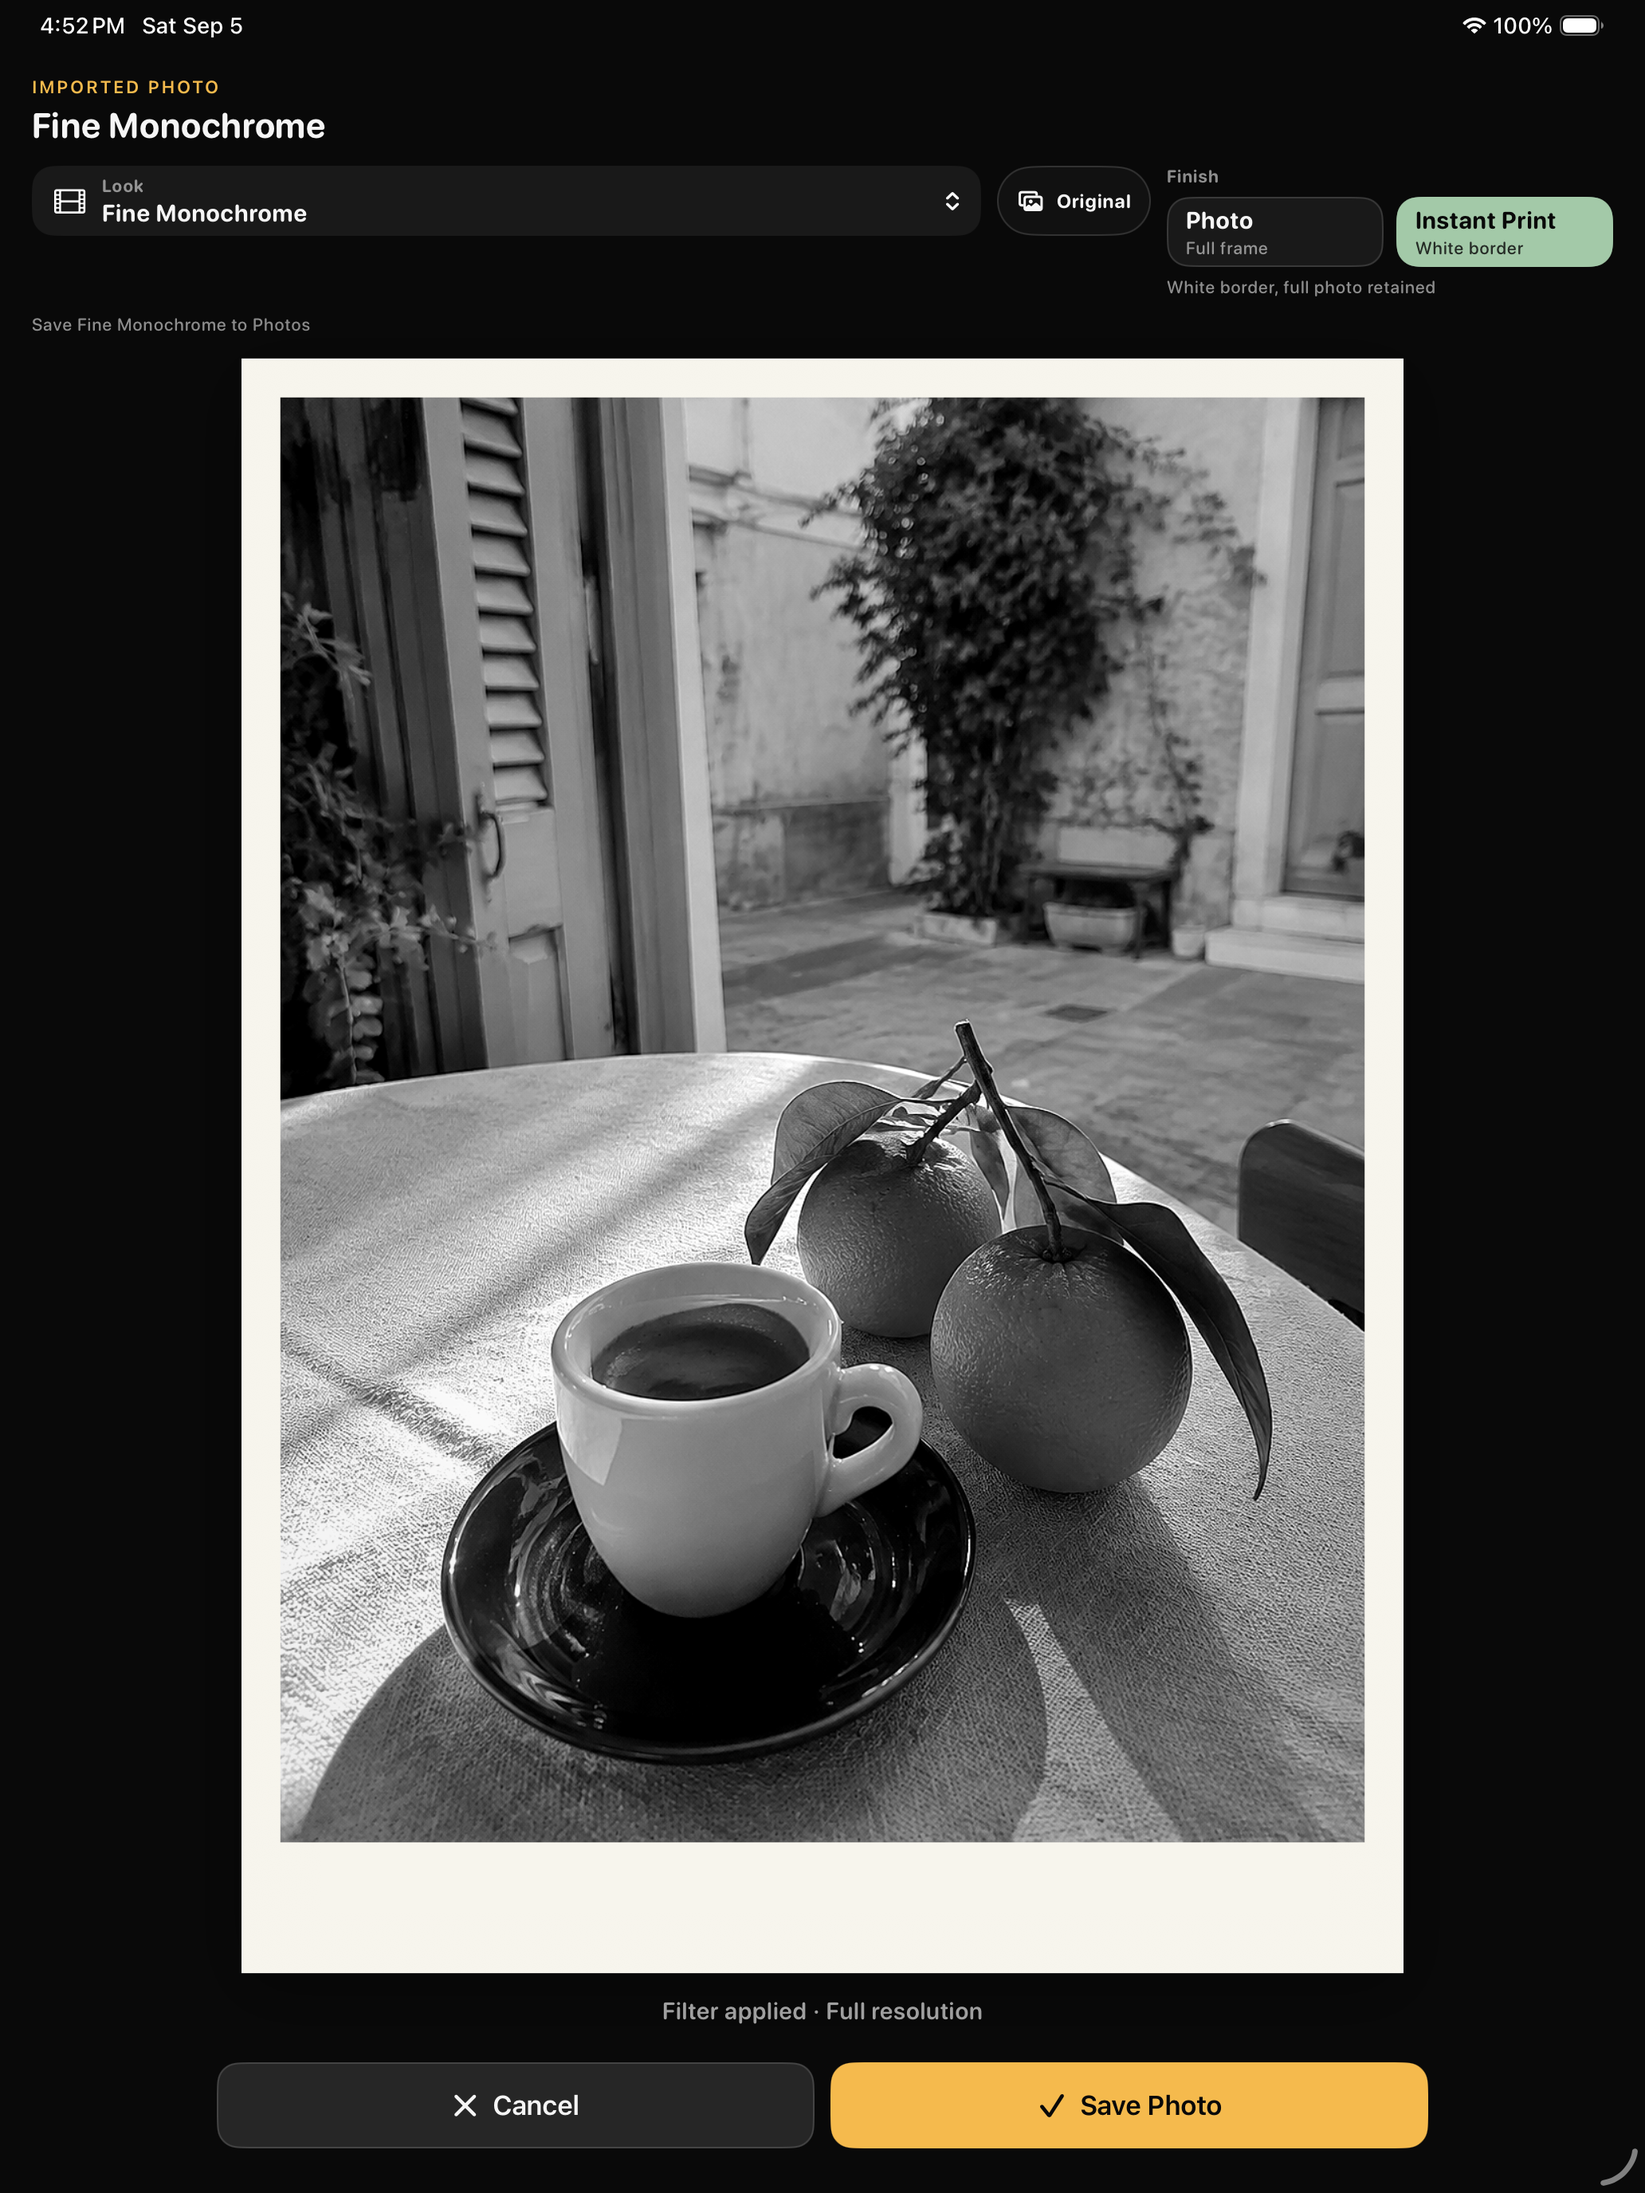
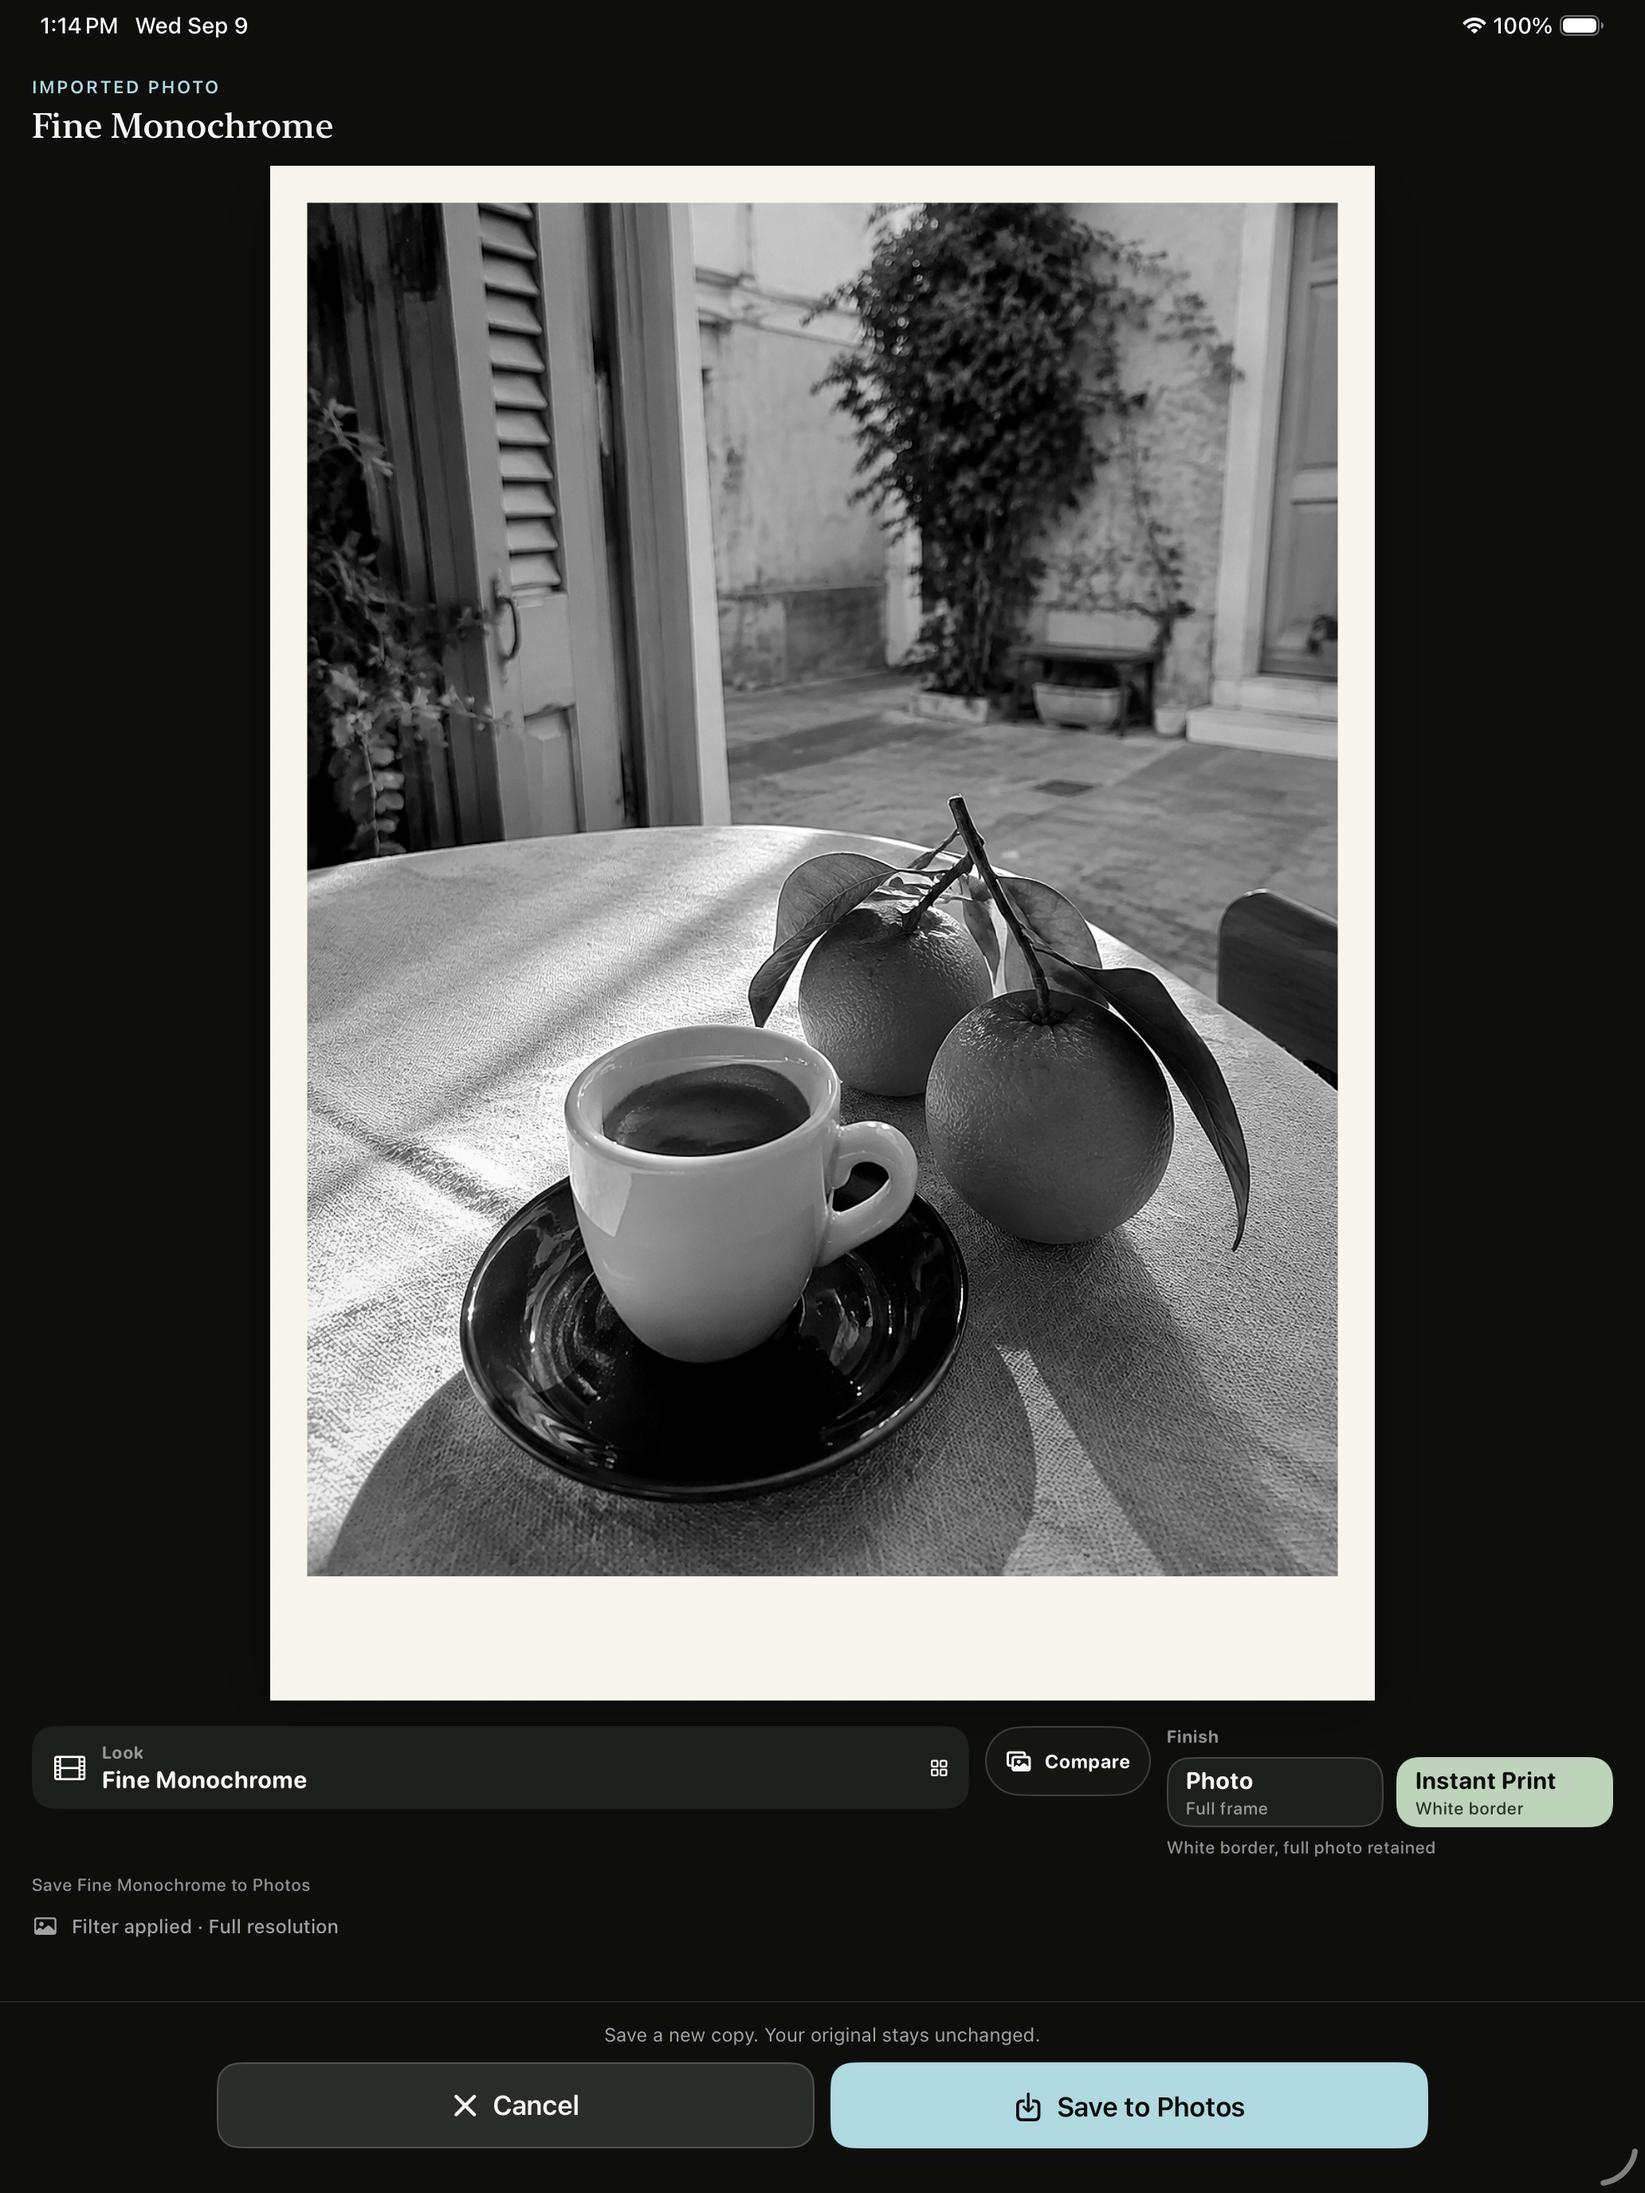
Refresh build 12 App Store screenshots and release status

diff --git a/docs/release-checklist.md b/docs/release-checklist.md
@@ -6,11 +6,16 @@ Current candidate: version 1.0.0, build 12, from [PR #90](https://github.com/dhe
 
 - [x] Review the catalog, capture setup, preview lifecycle, and release path; add regression coverage for canceled preview jobs and persisted aid toggles.
 - [x] Update local listing text for the 128-look catalog and capture tools; validate metadata and media inputs.
-- [ ] Pass final core, UI, Photos E2E, catalog, and iPhone/iPad hosted checks on the candidate source.
-- [ ] Merge the validated PR and verify main checks.
-- [ ] Create and validate the signed build 12 archive and IPA; upload and verify Apple processing.
-- [ ] Run physical-device acceptance for timer/cancel, framing, hardware shutter, preview aids, camera/lens controls, capture/import/save, and interruptions. On September 9, build 12 installed on the paired iPad, but launch was blocked by its lock screen. The paired iPhone also required unlocking before installation. Installation alone does not complete hardware acceptance.
+- [x] Pass final core, UI, Photos E2E, catalog, and iPhone/iPad hosted checks on candidate `e73c5ee`: 407 core/UI/Photos tests, 149 catalog/policy/layout tests, and 14 UI evidence cases on each device; zero failures/skips.
+- [x] Merge PR #90 and verify exact main `35f833b`: all 407 app tests and the Release SDK/physical-test compilation passed. The merged source tree matches the signed candidate.
+- [x] Create and validate the signed build 12 archive and IPA, including source provenance, signing, privacy, executable/dSYM UUIDs, and export parity. Archive source remains `e73c5ee`.
+- [ ] Upload build 12 and verify Apple processing. The attempt stopped before transfer because Xcode's account token was missing; Apple sign-in is required.
+- [ ] Run physical-device acceptance for timer/cancel, framing, hardware shutter, preview aids, camera/lens controls, capture/import/save, and interruptions. An earlier build 12 candidate installed on the iPad but could not launch while locked. Final candidate installation failed when the developer connection dropped; the iPhone was unavailable. Final physical acceptance remains incomplete.
+- [x] Publish and verify the privacy-policy explanation of optional on-device horizon motion processing. The live policy matches legal-site commit `f699bcb` ([deployment](https://github.com/dheeraj5612/filmycam-legal/actions/runs/34379804180)).
+- [x] Refresh and inspect both local five-image screenshot packs for build 12. Clean capture source `731b285` passed both complete import/save/Roll/detail flows with zero failures/skips; all ten unedited PNG attachments passed visual and structural validation. Source, runtime, summaries, and hashes are preserved. Upload remains pending.
+- [ ] Add an owner-approved public direct support contact, as described in Apple's [Support URL requirements](https://developer.apple.com/help/app-store-connect/reference/app-information/platform-version-information/). The current support page links GitHub Issues; no private App Review contact has been republished.
 - [ ] Refresh App Store Connect metadata/build selection and verify the saved draft.
+- [ ] Verify the saved age-rating questionnaire, including Apple's [September 2026 Social Media question](https://developer.apple.com/app-store/whats-new/). The source-based prepared answer is No; saved portal state is unverified.
 - [ ] Submit the validated free app for App Review and verify the resulting state. Public availability depends on Apple approval.
 
 The build 11 and earlier items below are historical candidate checkpoints. Their checked boxes do not validate build 12. The September 5 readback recorded build 10 as processed and Ready to Submit, with build 5 retained on a withdrawn distribution version; current Apple state needs fresh readback. Historical release notes are in [release-history.md](release-history.md).

diff --git a/docs/app-store/screenshots/iphone-6.5-current/README.md b/docs/app-store/screenshots/iphone-6.5-current/README.md
@@ -1,6 +1,6 @@
 # Current iPhone 6.5-inch App Store screenshot pack
 
-Five actual 1242×2688 PNGs from version 1.0.0 (11), captured September 5, 2026 with reversible review, Original comparison, and optional Instant Print borders. This replacement pack was uploaded to App Store Connect on September 5, 2026; a reload verified all five files in numeric order.
+Five actual 1242×2688 PNGs from version 1.0.0 (12), captured September 9, 2026 from clean source `731b285d1e3e9b28f9a960e21466a4a001b23e3e`. The application/project inputs match signed archive source `e73c5ee`; the intervening changes correct the screenshot test helper and privacy documentation. This pack has not been uploaded to App Store Connect.
 
 1. G7 X Compact import
 2. Muted Color import
@@ -8,12 +8,12 @@ Five actual 1242×2688 PNGs from version 1.0.0 (11), captured September 5, 2026 
 4. Populated Roll with exactly three matching saved treatments
 5. Fine Monochrome Instant Print photo detail
 
-The public generated cafe original in `../demo-source/` was imported through the normal production Photos picker, renderer, review, save, Roll, and detail flows. This demonstrates imported media, not live camera capture. No private photos or composited app UI are included.
+The public generated cafe original in `../demo-source/` was imported through the normal production Photos picker, renderer, review, save, Roll, and detail flows. These images demonstrate imported media. No private photos, composited app UI, debug overlays, or camera-unavailable placeholders are included.
 
-The hardened store-media runner created and seeded an isolated iPhone 11 Pro Max simulator on iOS 26.5, forced zero prior saves, and removed only that owned simulator afterward. Reference simulator libraries were untouched. All five images were visually inspected: G7 X is vivid, Muted Color is restrained, and Fine Monochrome is grayscale; the Roll shows their corresponding saved outputs.
+The runner created and seeded an isolated iPhone 11 Pro Max simulator on iOS 26.5 with zero prior saves. All five images were visually inspected: G7 X is vivid, Muted Color is restrained, Fine Monochrome is grayscale, and the Roll shows the corresponding saved outputs. The test also verifies complete photo bounds, source/Instant Print aspect ratio, reachable Look/Compare/Finish/Save controls, safe areas, and disabled covered-camera controls.
 
[2 lines of base64/hex data omitted]
 
-Run `scripts/release/validate-store-media.sh` for format/dimension checks. Structural validation is separate from visual inspection and App Store Connect acceptance.
+Capture provenance and per-image hashes are tracked in [build12-provenance.json](../build12-provenance.json).
 
-The source subsequently received compact-landscape layout changes; this portrait pack represents the unchanged portrait presentation.
+Run `scripts/release/validate-store-media.sh` for format/dimension checks. Local validation is separate from Apple upload and acceptance.

diff --git a/docs/app-store/screenshots/ipad-13-current/README.md b/docs/app-store/screenshots/ipad-13-current/README.md
@@ -1,17 +1,19 @@
 # Current iPad 13-inch App Store screenshot pack
 
-Five actual 2064×2752 PNGs from version 1.0.0 (11), captured September 5, 2026 with review look selection, Original comparison, and Instant Print. This replacement pack was uploaded to App Store Connect on September 5, 2026; a reload verified all five files in numeric order.
+Five actual 2064×2752 PNGs from version 1.0.0 (12), captured September 9, 2026 from clean source `731b285d1e3e9b28f9a960e21466a4a001b23e3e`. The application/project inputs match signed archive source `e73c5ee`; the intervening changes correct the screenshot test helper and privacy documentation. This pack has not been uploaded to App Store Connect.
 
 1. G7 X Compact import
 2. Muted Color import
-3. Fine Monochrome import
+3. Fine Monochrome import with Instant Print border
 4. Populated Roll with exactly three matching saved treatments
-5. Fine Monochrome photo detail
+5. Fine Monochrome Instant Print photo detail
 
-The public generated cafe original in `../demo-source/` was imported through the normal production Photos picker, renderer, review, save, Roll, and detail flows. This demonstrates imported media, not live camera capture. No private photos or composited app UI are included. The third import/detail flow shows the white Instant Print border and larger bottom margin.
+The public generated cafe original in `../demo-source/` was imported through the normal production Photos picker, renderer, review, save, Roll, and detail flows. These images demonstrate imported media. No private photos, composited app UI, debug overlays, or camera-unavailable placeholders are included.
 
-The store-media flow used an isolated iPad Pro 13-inch (M5) simulator on iOS 26.5 with zero prior saves. All five images were visually inspected: G7 X is vivid, Muted Color is restrained, and Fine Monochrome is grayscale; the Roll shows their corresponding saved outputs.
+The runner created and seeded an isolated iPad Pro 13-inch (M5) simulator on iOS 26.5 with zero prior saves. All five images were visually inspected: G7 X is vivid, Muted Color is restrained, Fine Monochrome is grayscale, and the Roll shows the corresponding saved outputs. The test also verifies complete photo bounds, source/Instant Print aspect ratio, reachable Look/Compare/Finish/Save controls, safe areas, and disabled covered-camera controls.
 
[2 lines of base64/hex data omitted]
 
-Run `scripts/release/validate-store-media.sh` for format/dimension checks. Structural validation is separate from visual inspection and App Store Connect acceptance.
+Capture provenance and per-image hashes are tracked in [build12-provenance.json](../build12-provenance.json).
+
+Run `scripts/release/validate-store-media.sh` for format/dimension checks. Local validation is separate from Apple upload and acceptance.
